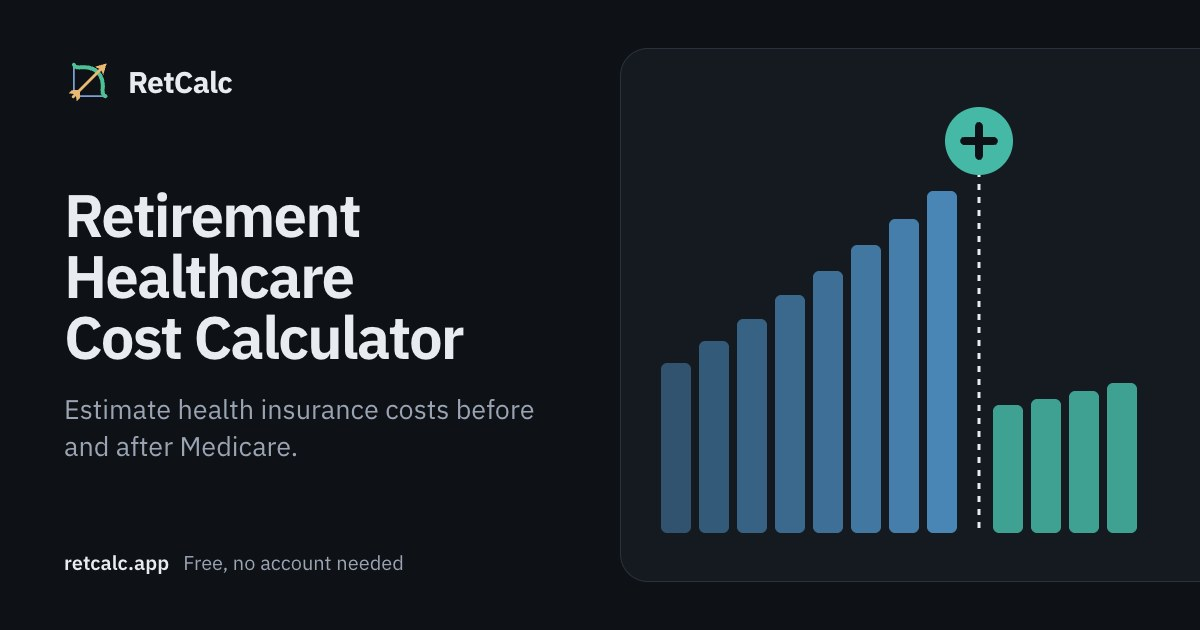
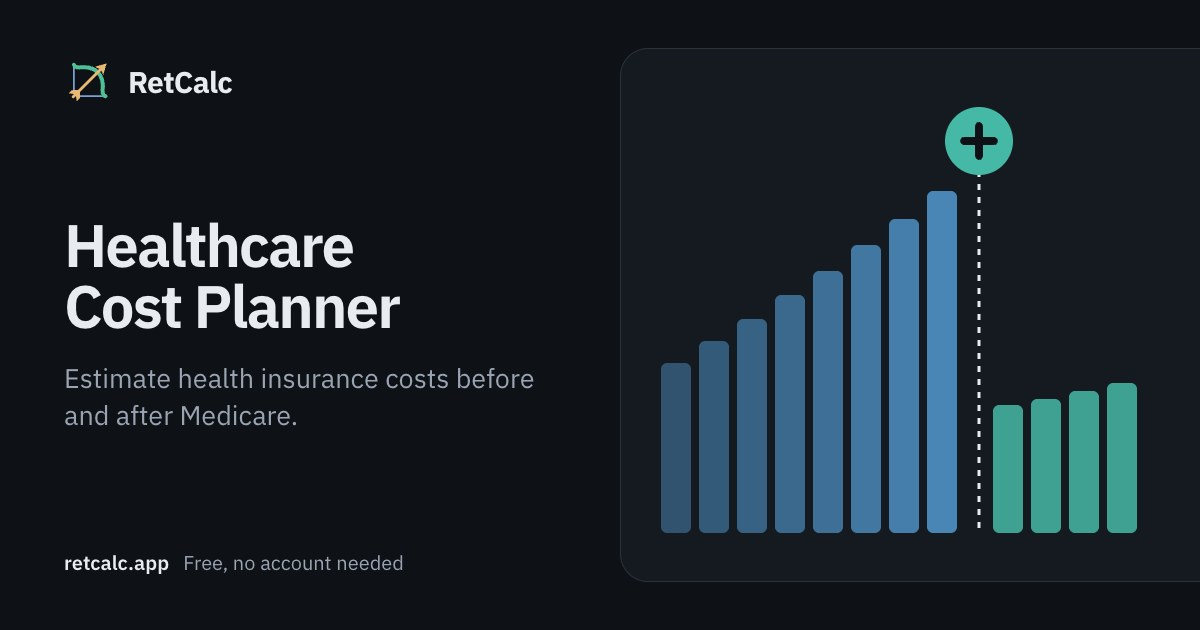
Healthcare Cost Planner, Roth Conversion Calculator, Retirement Plan Optimizer everywhere
The owner's names for the three, in the nav, Tools page, homepage, page
headings, tab titles, preview cards, the Guide and its report, help,
articles and tests (was Retirement Healthcare Calculator on its page,
Roth Conversion & RMDs, and Plan Optimizer).

Changed region(s): [[0.0308, 0.3016, 0.4625, 0.7238]]

diff --git a/web/tools/about/About.tsx b/web/tools/about/About.tsx
@@ -21,7 +21,7 @@ import { Collapsible, CollapsibleContent, CollapsibleTrigger } from "@/component
    "about-" + its key, so a link to /about#about-roth opens Roth's. */
 const GROUPS = [
   { key: "calculator", label: "Calculator and Guide", sections: [["projection", "How the projection works"], ["basic", "Basic"], ["advanced", "Advanced"], ["stages", "Stages"], ["guide", "Retirement Readiness Guide"], ["paycheck", "Paycheck to Retirement"]] },
-  { key: "retirement", label: "Retirement income", sections: [["optimizer", "Plan Optimizer"], ["drawdown", "Drawdown Simulator"], ["social", "Social Security Calculator"], ["bridge", "Early Retirement Bridge"], ["roth", "Roth Conversion & RMDs"], ["healthcare", "Healthcare Cost Planner"]] },
+  { key: "retirement", label: "Retirement income", sections: [["optimizer", "Retirement Plan Optimizer"], ["drawdown", "Drawdown Simulator"], ["social", "Social Security Calculator"], ["bridge", "Early Retirement Bridge"], ["roth", "Roth Conversion Calculator"], ["healthcare", "Healthcare Cost Planner"]] },
   { key: "saving", label: "Saving and investing", sections: [["fire", "FIRE Calculator"], ["backtest", "Portfolio Backtest"], ["college", "College Savings"], ["rentbuy", "Rent vs. Buy"]] },
   { key: "everyday", label: "Everyday money", sections: [["tax", "Income Tax"], ["budget", "Budget"], ["debt", "Debt Payoff"], ["mortgage", "Mortgage Calculator"]] },
   { key: "methods", label: "Methods", sections: [["historical", "Historical"], ["montecarlo", "Monte Carlo"]] },
@@ -451,7 +451,7 @@ export function About({ states }: { states: StateOption[] }) {
               traditional, Roth and a taxable brokerage account, split the way you answer,
               with new saving going where you say and any employer match into traditional.
               The retirement is then run year by year through every historical market since
-              1926 by the plan engine the Plan Optimizer uses, living on a fixed amount after
+              1926 by the plan engine the Retirement Plan Optimizer uses, living on a fixed amount after
               tax that rises with inflation until you, or the younger of you and a spouse,
               reach 95. The outlook is the share of those retirements where the money
               lasted, and the guide also solves for what you&apos;d need saved by retirement to
@@ -514,11 +514,11 @@ export function About({ states }: { states: StateOption[] }) {
               income surcharge on a two-year lookback, the 10% additional tax on traditional
               money taken before 59½, required minimum distributions from 73 or 75, and,
               before 65, a marketplace health plan less the subsidy that year&apos;s income earns.
-              Unless you apply the Plan Optimizer&apos;s roadmap, withdrawals come from the
+              Unless you apply the Retirement Plan Optimizer&apos;s roadmap, withdrawals come from the
               brokerage first, then traditional, then Roth. Home equity isn&apos;t counted.</dd>
 
-              <dt>Plan Optimizer</dt>
-              <dd>Near the end, the guide hands your plan to the Plan Optimizer (below),
+              <dt>Retirement Plan Optimizer</dt>
+              <dd>Near the end, the guide hands your plan to the Retirement Plan Optimizer (below),
               which searches every claiming age, withdrawal order, Roth conversion level and
               income guard for the best way to run it. <b>Use this plan</b> makes its
               roadmap your plan&apos;s own, with Undo: the score, the projection and every step
@@ -620,7 +620,7 @@ export function About({ states }: { states: StateOption[] }) {
             <p>Once you know when you&apos;ll retire and what you&apos;ll spend, the rest is tactics,
             and they&apos;re worth a lot: when each of you claims Social Security, which account
             each year&apos;s money comes from, and how much to move from traditional to Roth
-            while your income is low. The Plan Optimizer tries every combination and keeps
+            while your income is low. The Retirement Plan Optimizer tries every combination and keeps
             the best, for the goal you pick.</p>
             <dl className="gloss">
               <dt>Where it starts</dt>

diff --git a/web/tools/guide/report/pages.tsx b/web/tools/guide/report/pages.tsx
@@ -281,7 +281,7 @@ function Money({ M, p }: { M: ReportModel; p: PageInfo }) {
         <div><Sec>Tax over the whole retirement</Sec>
           <Side><div className="rp-fig">{money(M.S.lifeTax)}</div>in the middle of history, about {money(M.S.taxYr)} in a typical year.
             {afterRmd > 0.3 ? <><h5 className="gap">Where to look</h5>On the average path, {pctStr(afterRmd, 0)} of the tax comes after {M.rmdAge}, from required withdrawals. Roth conversions in lower-tax years before then can move some of it earlier at a lower rate.</> : null}
-            {!M.S.tactics ? <> The Plan Optimizer tests that, along with claiming ages and the order to draw accounts.</> : null}</Side></div>
+            {!M.S.tactics ? <> The Retirement Plan Optimizer tests that, along with claiming ages and the order to draw accounts.</> : null}</Side></div>
       </div>
       <Sec>Each year of retirement, by source</Sec>
       <IncomeBars M={M} w={732} h={210} /><IncomeKey M={M} />
@@ -517,7 +517,7 @@ function Social({ M, p }: { M: ReportModel; p: PageInfo }) {
           <div className="rp-key"><span><i style={{ "--sw": C.water } as React.CSSProperties} />Both of you, to {M.end}</span><span><i className="dash" style={{ "--sw": C.trail } as React.CSSProperties} />What one of you keeps, alone</span></div></div>
         <div><Sec>When one of you dies</Sec>
           <Side><div className="rp-fig">{money(Q.survivor / 12)}</div>per month for the survivor: the larger of the two benefits carries on and the smaller one stops, so the household&apos;s Social Security falls from {money(total / 12)}.
-            <h5 className="gap">Why it matters</h5>The higher earner&apos;s claiming age sets the survivor&apos;s benefit too, which is why waiting often pays off for couples. The Plan Optimizer tries every pair of claiming ages.</Side></div>
+            <h5 className="gap">Why it matters</h5>The higher earner&apos;s claiming age sets the survivor&apos;s benefit too, which is why waiting often pays off for couples. The Retirement Plan Optimizer tries every pair of claiming ages.</Side></div>
       </div>
     </Sheet>
   );
@@ -555,12 +555,12 @@ function Pension({ M, p }: { M: ReportModel; p: PageInfo }) {
   );
 }
 
-/* ---------- the Plan Optimizer's roadmap (when applied) ---------- */
+/* ---------- the Retirement Plan Optimizer's roadmap (when applied) ---------- */
 function Roadmap({ M, p }: { M: ReportModel; p: PageInfo }) {
   const Rm = M.roadmap!, B = Rm.base, conv = M.rows.filter((r) => r.age < (Rm.until ?? M.rmdAge) + 1);
   return (
     <Sheet M={M} p={p}>
-      <Lead h={<>The Plan Optimizer&apos;s plan for &ldquo;{Rm.goal.toLowerCase()}&rdquo;, applied to yours.</>}>
+      <Lead h={<>The Retirement Plan Optimizer&apos;s plan for &ldquo;{Rm.goal.toLowerCase()}&rdquo;, applied to yours.</>}>
         {Rm.goalDesc}. It claims Social Security at {Rm.claims} and draws {lowerFirst(Rm.line)}. The rest of this report already uses it.
       </Lead>
       <Sec>With and without the roadmap</Sec>
@@ -581,7 +581,7 @@ function Roadmap({ M, p }: { M: ReportModel; p: PageInfo }) {
         <table className="rp-t"><thead><tr><th>Year</th><th>{M.who.axis.replace("'s age", "")}</th><th>Converted to Roth</th><th>From traditional</th><th>Social Security</th><th>Income tax</th></tr></thead><tbody>
           {conv.filter((r) => r.conv > 0).map((r) => <tr key={r.age}><td>{M.year0 + (r.age - M.accum[0].age)}</td><td>{r.age}</td><td>{money(r.conv)}</td><td>{money(r.trad)}</td><td>{r.ss >= 1 ? money(r.ss) : "–"}</td><td>{money(r.tax + r.irmaa)}</td></tr>)}
         </tbody></table></> : null}
-      <p className="rp-small gap">Run the Plan Optimizer again after a big change in the Guide: a new retirement age, spending or savings changes the best roadmap.</p>
+      <p className="rp-small gap">Run the Retirement Plan Optimizer again after a big change in the Guide: a new retirement age, spending or savings changes the best roadmap.</p>
     </Sheet>
   );
 }

diff --git a/web/tools/guide/moves.ts b/web/tools/guide/moves.ts
@@ -112,9 +112,9 @@ export function moves(a: Answers, F: PlanFacts): Move[] {
     out.push({ id: "bridge-shore", when: "When you're ready", t: "Shore up the bridge to 59½: it held in " + a.bridgeHold + "% of markets",
       d: "More savings in a Roth or taxable account, a later retirement or lower spending in the early years would widen the margin.", trip: "bridge", btn: "Revisit the bridge" });
   if (S && !tactics(a))
-    out.push({ id: "optimizer", when: "When you're ready", t: "Let the Plan Optimizer look at the " + money(S.lifeTax) + " in tax",
+    out.push({ id: "optimizer", when: "When you're ready", t: "Let the Retirement Plan Optimizer look at the " + money(S.lifeTax) + " in tax",
       d: "It tries every claiming age from 62 to 70" + (mar(a) ? " for each of you" : "") + ", every order for drawing down your accounts and every Roth conversion level, through every market since 1926, and keeps the plan that does best.",
-      go: "optimize", btn: "Open the Plan Optimizer" });
+      go: "optimize", btn: "Open the Retirement Plan Optimizer" });
   if (ok(a.retire) && a.retire < 65 && !a.hcSeen && S && S.hcYr > 0)
     out.push({ id: "healthcare", when: "When you're ready", t: "Get to know the " + money(S.hcYr) + " per year for health insurance before 65",
       d: "That's marketplace coverage after the subsidy your plan's income earns. The Healthcare Cost Planner shows how the subsidy moves with income, and what Medicare costs after.",
@@ -170,7 +170,7 @@ export function toolkit(a: Answers, src: Sources, F: PlanFacts, list: Move[]): K
   const all: (Kit & { on: boolean })[] = [
     { id: "drawdown", name: "Drawdown Simulator", trip: "drawdown", on: !!S, why: "Every plan: any single starting year, in full",
       q: "How does one retirement play out year by year, and what does a flexible rule change?" },
-    { id: "optimizer", name: "Plan Optimizer", go: "optimize", on: !!S && (mar(a) || (saved > 0 && A.trad / saved > 0.4) || (ok(a.retire) && a.retire < 65)),
+    { id: "optimizer", name: "Retirement Plan Optimizer", go: "optimize", on: !!S && (mar(a) || (saved > 0 && A.trad / saved > 0.4) || (ok(a.retire) && a.retire < 65)),
       why: mar(a) ? "Two claiming ages to choose" : ok(a.retire) && a.retire < 65 ? "Retiring at " + fmtNum(a.retire) + ", before Medicare" : "Most of your savings is traditional",
       q: "When to claim, which account to draw first, and whether to convert to Roth" },
     { id: "healthcare", name: "Healthcare Cost Planner", trip: "healthcare", on: ok(a.retire) && a.retire < 65,

diff --git a/web/tools/guide/steps/ch4-costs.tsx b/web/tools/guide/steps/ch4-costs.tsx
@@ -135,7 +135,7 @@ export function SocialCard() {
           <SelF k="ssClaim" label={m ? "When would you each claim it?" : "When would you claim it?"} num full
             opts={[["", "At 67, or when I retire if that's later"], ...[62, 63, 64, 65, 66, 67, 68, 69, 70].map((x) =>
               [x, "At " + x + (x === 62 ? ", the earliest" : x === 67 ? ", full retirement age" : x === 70 ? ", the most it pays" : "")] as [number, string])]}
-            hint={"In this plan it never starts before you retire. The Plan Optimizer, near the end, tries every age for " + (m ? "each of you." : "you.")} />
+            hint={"In this plan it never starts before you retire. The Retirement Plan Optimizer, near the end, tries every age for " + (m ? "each of you." : "you.")} />
         </div>
       </Numbers>
       <SocialMeans />
@@ -159,7 +159,7 @@ function SocialMeans() {
         {needYr != null ? <li>That&apos;s <b>{pctStr(Math.min(9.99, (ss.total + pen) / needYr), 0)}</b> of the <b>{money(needYr)}</b> per year your plan needs including tax
           {pen ? ", counting your pension" : ""}.{early ? " Savings carry the " + yrs(early) + " before it starts." : ""}{guessing(a) ? " Spending is still the starting estimate." : ""}</li> : null}
         {pos(a.pension) ? <li>Your pension: <b>{money(a.pension * 12)}</b> per year from {ok(from) ? fmtNum(from) : "retirement"}{a.pensionCola === "yes" ? ", rising with inflation." : ", a fixed amount, so it buys a little less each year."}</li> : null}
-        {ss.tactics ? <li>These are the Plan Optimizer&apos;s claiming ages, which your plan now uses.</li> : null}
+        {ss.tactics ? <li>These are the Retirement Plan Optimizer&apos;s claiming ages, which your plan now uses.</li> : null}
         {!ss.own && ss.career < 35 ? <li>It averages your best 35 years, so retiring after {ss.career} years of work counts the rest as zeros.</li> : null}
         {est ? <li>An estimate from your income. Your statement at ssa.gov/myaccount uses your real record; the trust fund is also projected to run short in the 2030s,
           {" "}so a cautious plan can enter a lower figure.</li> : null}

diff --git a/web/lib/glossary.ts b/web/lib/glossary.ts
@@ -174,7 +174,7 @@ export const GLOSS: Record<string, string> = {
   brholds: "The share of historical start years (or random draws, in Monte Carlo) in which the plan gets to 59½ without running short and without having to touch penalized money it didn't plan on. For the pay-the-penalty plan, only running short counts.",
   brcost: "Everything the best plan pays between retirement and 59½ on the steady path, other than your spending: federal and state income tax, early withdrawal penalties, and net health insurance premiums. Today's dollars.",
   brhandoff: "Both buttons use the highlighted column above. Drawdown gets the total as its starting portfolio at 60 and a fixed withdrawal that covers your spending plus tax. Income Tax gets one year of those withdrawals, split across traditional, Roth and brokerage in proportion to their balances.",
-  /* The Plan Optimizer's, from src/js/app/31b-plan-optimizer.js. */
+  /* The Retirement Plan Optimizer's, from src/js/app/31b-plan-optimizer.js. */
   opinc: "Don't have your Social Security statement? Leave the benefit blank and enter your salary instead: the optimizer estimates the benefit at 67 from it, with the 2026 formula, assuming you work at about this pay until you retire. A statement from ssa.gov/myaccount is more accurate.",
   opmode: "Retirement day: enter the balances you'll have when you retire (or copy them from Advanced or Stages, which project them with every detail), and the optimizer starts there. Today: enter what you have now and what you save each month, and it grows them to retirement at a steady return first.",
   opretire: "The age you stop working. Your spouse stops at the same time, at whatever age they are then. Already retired? Enter your age today.",

diff --git a/web/tools/guide/report/model.ts b/web/tools/guide/report/model.ts
@@ -182,7 +182,7 @@ export function reportModel(a0: Answers, src: Sources, levers: Levers, names: Re
       ladder2: ages.map((c) => { const x = at(S.ss.claim, c); return { age: c, v: x.own2 + x.top2 }; }) };
   })() : null;
 
-  /* The Plan Optimizer's roadmap, once applied: against the same plan
+  /* The Retirement Plan Optimizer's roadmap, once applied: against the same plan
      without it (base), as the Guide's own sim works both out. */
   const roadmap = S.tactics ? (() => {
     const base = sim(a, undefined, true), C = S.C as unknown as { married: boolean; gap?: number; rmdAge?: number };
@@ -219,7 +219,7 @@ export function reportModel(a0: Answers, src: Sources, levers: Levers, names: Re
   add("money", "Where the money comes from");
   if (social) add("social", "Social Security for both of you", "On this report because you plan as a couple");
   if (pension) add("pension", "Your pension", "On this report because you have a pension");
-  if (roadmap) add("roadmap", "Your Plan Optimizer roadmap", "On this report because you applied the Plan Optimizer");
+  if (roadmap) add("roadmap", "Your Retirement Plan Optimizer roadmap", "On this report because you applied the Retirement Plan Optimizer");
   if (health) add("health", "Health insurance before Medicare", "On this report because you retire before 65");
   if (debt) add("debt", "Paying off debt", "On this report because you have debt besides a mortgage");
   add("score", "Your score, area by area");

diff --git a/web/content/articles/guide.html b/web/content/articles/guide.html
@@ -31,7 +31,7 @@
       <li><b>Building your savings:</b> what you have and add, which gives your number; how it's invested; and, on the Full walkthrough, where it sits for tax and the changes ahead, like children, raises or a paid-off mortgage.</li>
       <li><b>What retirement costs:</b> your spending in retirement and Social Security.</li>
       <li><b>Will it last:</b> your number in full, then your plan replayed through every retirement since 1926.</li>
-      <li><b>Make it stronger:</b> the four levers and the options they solve for, how you'll draw the money down, healthcare before 65 and the years before 59½ if you'll retire early, and the <a href="/optimizer">Plan Optimizer</a> for Social Security and Roth conversions.</li>
+      <li><b>Make it stronger:</b> the four levers and the options they solve for, how you'll draw the money down, healthcare before 65 and the years before 59½ if you'll retire early, and the <a href="/optimizer">Retirement Plan Optimizer</a> for Social Security and Roth conversions.</li>
       <li><b>Your plan and toolkit:</b> your number beside your score, your next moves as a checklist, and the tools that matter for you, with your numbers in them. Save a snapshot, and next time the guide shows what's moved.</li>
     </ul>
     <p>Already retired? The guide is built for the saving years, so it takes your savings and spending straight to the <a href="/drawdown">Drawdown Simulator</a> instead.</p>

diff --git a/web/lib/engine/plan.js b/web/lib/engine/plan.js
@@ -1,5 +1,5 @@
 /* The retirement plan engine: one household's retirement year by year and account by
-   account, and the Plan Optimizer's search.
+   account, and the Retirement Plan Optimizer's search.
 
    Moved from src/js/plan.js without changes to the math: the only edits are
    `export` on each top-level name and the imports below. Import it
@@ -18,7 +18,7 @@ import { yearData, HIST_START } from "./data/index.js";
    One household's retirement, year by year and account by account: what
    comes out of the traditional 401(k)/IRA, the Roth and the taxable
    brokerage each year, what that does to the tax bill, and what's left.
-   The readiness guide tests every plan with it, and the Plan Optimizer
+   The readiness guide tests every plan with it, and the Retirement Plan Optimizer
    searches the ways of running it (when each of you claims Social Security,
    which account to draw first, how much to convert to Roth, and which income
    lines to stay under) for the one that does best.
@@ -627,7 +627,7 @@ export function plAtRetire(I){
   return P;
 }
 
-/* ---------- the Plan Optimizer ----------
+/* ---------- the Retirement Plan Optimizer ----------
    Every combination of tactics -- each claiming age for each of you, each
    bracket fill, conversion window and income guard -- run through every
    historical start since 1926. For a couple that is a few thousand plans and

diff --git a/web/tools/guide/live.tsx b/web/tools/guide/live.tsx
@@ -69,7 +69,7 @@ export function SSNote({ a }: { a: Answers }) {
   const ss = ssFor(a, a.retire), both = mar(a) && ss.a2 > 0;
   const src = (own: boolean, who: string) => (own ? "from " + who + " statement" : "estimated from " + who + " income");
   let tail = "";
-  if (ss.tactics) tail += " These are the Plan Optimizer's claiming ages, which your plan now uses.";
+  if (ss.tactics) tail += " These are the Retirement Plan Optimizer's claiming ages, which your plan now uses.";
   if (!ss.own && ss.career < 35) tail += " Social Security averages your best 35 years, so retiring this early counts the missing years as zeros.";
   let cover: React.ReactNode = null;
   if (pos(a.retSpend)) {
@@ -159,7 +159,7 @@ export function HcNote({ a }: { a: Answers }) {
   if (!(S.hcYr > 0)) return <Callout cls="ok">In your plan, income stays low enough before 65 that coverage comes through Medicaid or a full subsidy.</Callout>;
   return (
     <Callout>In your plan: about <b>{money(S.hcYr) + " per year"}</b> for {S.hcYears + (S.hcYears === 1 ? " year" : " years")}, after the subsidy its income earns.
-      {" "}Above 400% of the poverty line the subsidy disappears all at once; the Plan Optimizer can keep income under that line.</Callout>
+      {" "}Above 400% of the poverty line the subsidy disappears all at once; the Retirement Plan Optimizer can keep income under that line.</Callout>
   );
 }
 

diff --git a/web/tools/guide/steps/ch6-stronger.tsx b/web/tools/guide/steps/ch6-stronger.tsx
@@ -4,7 +4,7 @@
    each change does before any option is picked (lesson 16), and the two
    cards only some plans need, healthcare before 65 (lesson 18) and the
    years before 59½ (lesson 19). Adjust your plan, drawing it down and the
-   Plan Optimizer keep their screens in tune.tsx, strategy.tsx and
+   Retirement Plan Optimizer keep their screens in tune.tsx, strategy.tsx and
    optimize.tsx, with their lessons added there. */
 
 import { fmtNum, money, pctStr } from "@/lib/format";
@@ -109,7 +109,7 @@ export function BridgeCard() {
         </Lesson>
       </Learn>
       <Lead>Your plan already follows the rules: before 59½ it lives on the brokerage account and Roth contributions first, and only pays the 10% penalty if
-        {" "}nothing else is left. The Plan Optimizer, next, can build a Roth conversion ladder to open up traditional money early.</Lead>
+        {" "}nothing else is left. The Retirement Plan Optimizer, next, can build a Roth conversion ladder to open up traditional money early.</Lead>
       <BridgeNote a={a} />
       <p className="hint -mt-1.5 mx-0 mb-3.5">The split comes from your answers on Where it sits. <Button variant="quiet" size="inline" data-go="accounts" onClick={() => G.go("accounts")}>Change it</Button></p>
       {v.retire! >= 55 ? <><H3>Will you leave a job with a 401(k) at 55 or later?</H3>

diff --git a/web/tools/guide/optimize.tsx b/web/tools/guide/optimize.tsx
@@ -1,6 +1,6 @@
 "use client";
 
-/* The Plan Optimizer as a step of the guide: the same search and result as
+/* The Retirement Plan Optimizer as a step of the guide: the same search and result as
    its own page, on the guide's plan, with "Use this plan" to apply what it
    finds. From opGuideHTML(), opApplyToGuide() and opClearGuide() in
    src/js/app/31b-plan-optimizer.js. */
@@ -32,7 +32,7 @@ export function OptimizeStep() {
     <>
       <Q>Find the best way to run your retirement</Q>
       <p className="gd-lead">Your plan so far claims Social Security at {opClaims(S.T, S.C)} and draws from the brokerage, then traditional, then Roth.
-        {" "}The Plan Optimizer tries every other way: each claiming age from 62 to 70{S.C.married ? " for each of you" : ""}, drawing traditional money first up to each tax bracket,
+        {" "}The Retirement Plan Optimizer tries every other way: each claiming age from 62 to 70{S.C.married ? " for each of you" : ""}, drawing traditional money first up to each tax bracket,
         {" "}converting to Roth for different stretches, and staying under the ACA and Medicare income lines. It runs all <b>{groupDigits(E.n, true)}</b> plans through every market since {HIST_START as number}
         {" "}and keeps the best.</p>
       <BackNote step="optimize" />

diff --git a/web/components/home/Home.tsx b/web/components/home/Home.tsx
@@ -106,7 +106,7 @@ export function Home({ data }: { data: HomeData }) {
             text="ACA premiums and subsidies, then Part B, Part D and IRMAA."><HealthChart /></Tile>
 
           <Node row={7} label="62 to 70" />
-          <Tile href="/optimizer" className="hm-left hm-r7" kick="Plan Optimizer" kickClass="hm-c-amber"
+          <Tile href="/optimizer" className="hm-left hm-r7" kick="Retirement Plan Optimizer" kickClass="hm-c-amber"
             title="Put it all together into one plan."
             text="Tries thousands of claiming ages, withdrawal orders and Roth conversions, and finds the combination that leaves you the most."><CloudChart /></Tile>
 
@@ -128,7 +128,7 @@ export function Home({ data }: { data: HomeData }) {
           </Link>
 
           <Node row={10} label="73" />
-          <Tile href="/roth" className="hm-right hm-r10" kick="Roth Conversion & RMDs" kickClass="hm-c-teal" title="Plan for required distributions."
+          <Tile href="/roth" className="hm-right hm-r10" kick="Roth Conversion Calculator" kickClass="hm-c-teal" title="Plan for required distributions."
             text="Your required withdrawals to age 100, and what a conversion schedule saves against doing nothing."><RothChart /></Tile>
         </div>
       </section>
